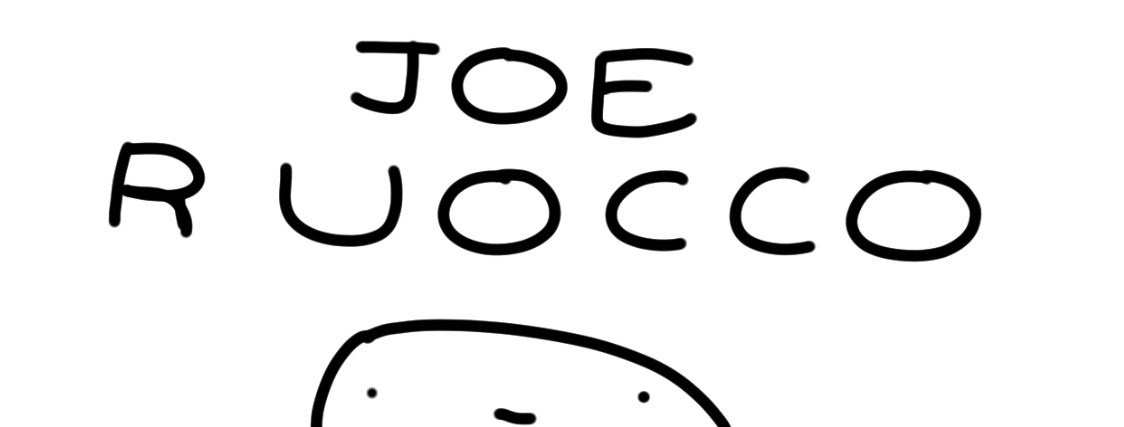
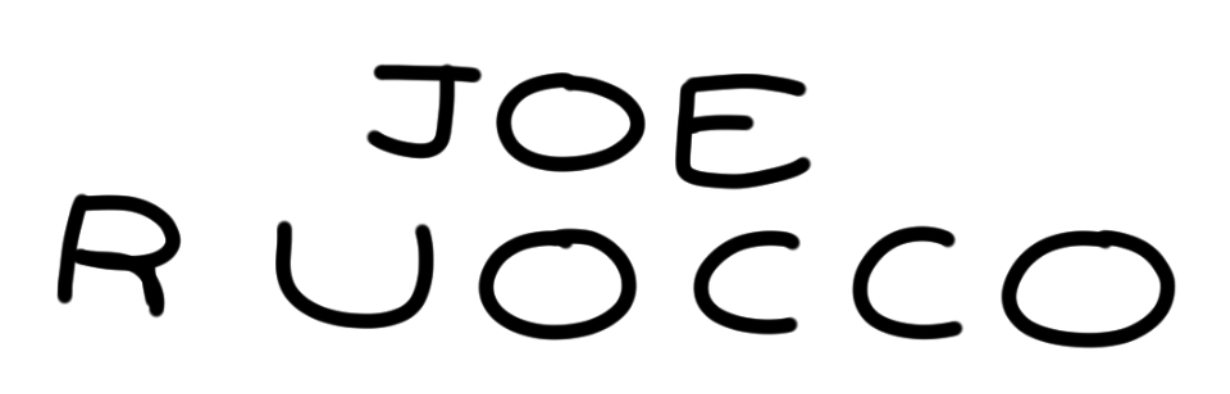
changed header and masthead

Changed region(s): [[0.218, 0.0914, 0.9653, 1.0], [0.0311, 0.335, 0.1868, 0.8223], [0.4359, 0.9442, 0.4982, 1.0]]

diff --git a/index.html b/index.html
@@ -5,8 +5,7 @@ title: Home
 
 <section>
   <h2>Hello!</h2>
-  <p>I like to read, write, and draw.</p>
-  <p>I've shaped my life around good ideas, and I'm sharing them here along other things I've created.</p>
+  <p>This site houses the creative works of Joseph Ruocco</p>
 </section>
 
 <section>
